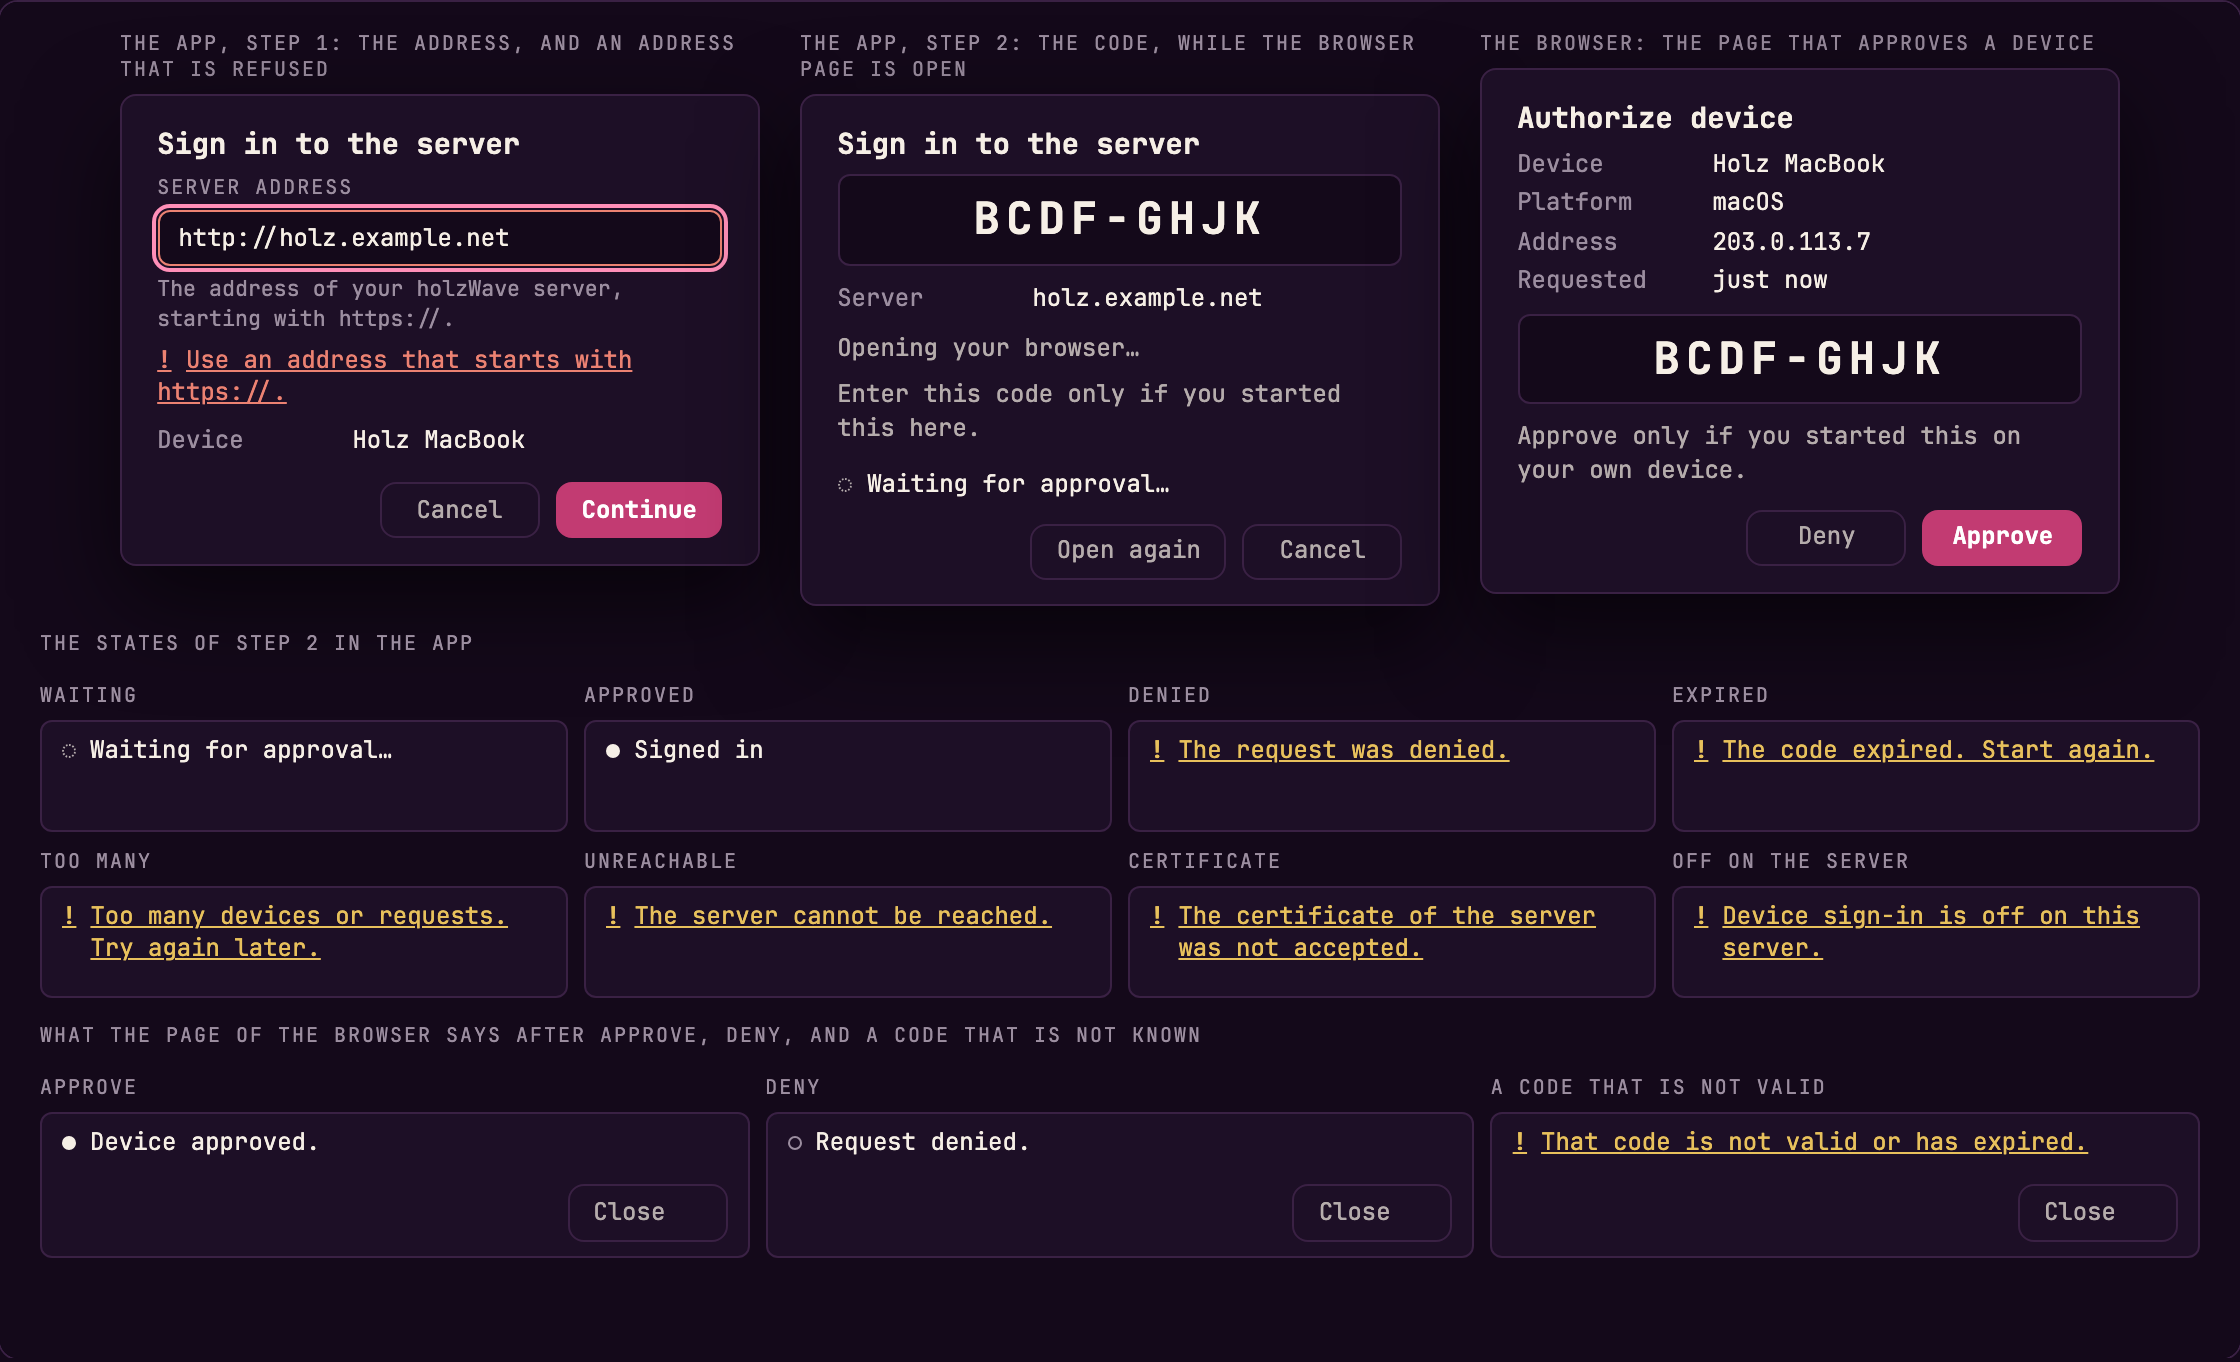
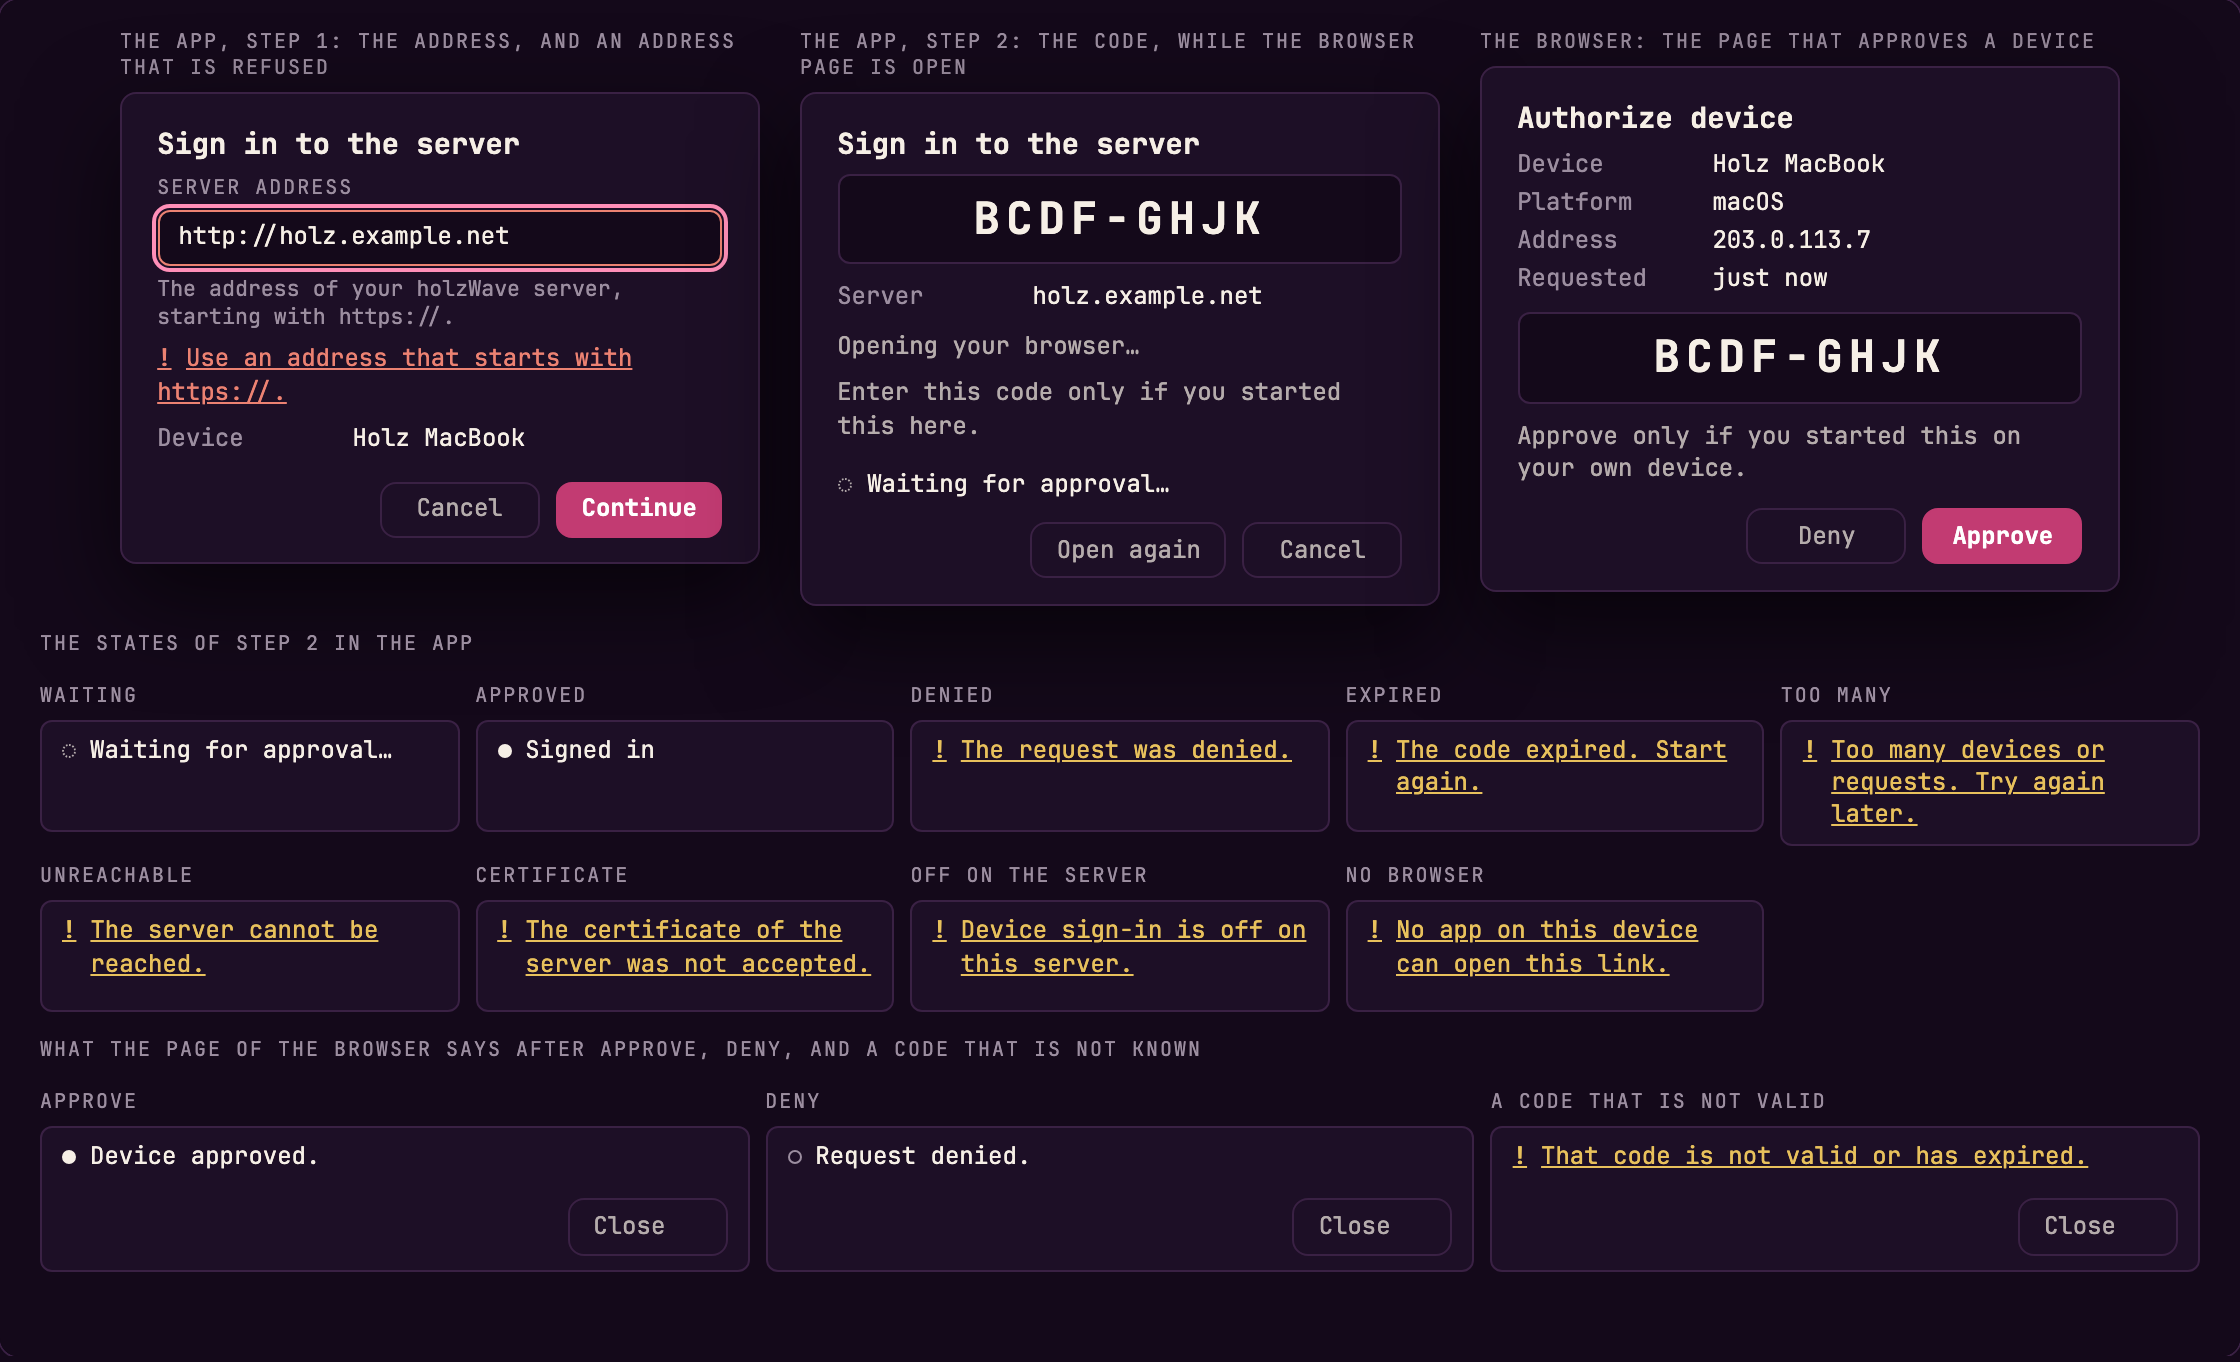
docs(12-37): the design page draws a browser that could not be opened under the code of the sign-in step, the picture is rendered again and both captions name it
- a cell No browser among the states of step 2; the grid has five columns so nine cells fit without a row leaving the stage
- the dump of the new page against the previous one differs in exactly the view device-authorize

Claude-Session: https://claude.ai/code/session_01LwGZpYjc6okCkNEtVxMhrw

diff --git a/docs/design/haarlinie-voll.html b/docs/design/haarlinie-voll.html
@@ -815,7 +815,7 @@ td:first-child{color:var(--ink);font-weight:600;white-space:nowrap}
 .dv-kv .k{color:var(--ink3)}.dv-kv .v{color:var(--ink);overflow:hidden;text-overflow:ellipsis;white-space:nowrap}
 .dv-kv .v.mo{font-family:var(--mono)}
 .dv-note{margin:0 0 .4rem;color:var(--ink2)}
-.dv-states{display:grid;grid-template-columns:repeat(4,1fr);gap:8px}
+.dv-states{display:grid;grid-template-columns:repeat(5,1fr);gap:8px}
 .dv-res{display:grid;grid-template-columns:repeat(3,1fr);gap:8px}
 .dv-st{display:flex;flex-direction:column;gap:3px;padding:6px 10px 7px;border:1px solid var(--edge);border-radius:6px;background:var(--ground2);min-height:56px}
 .dv-st .w{display:flex;align-items:flex-start;gap:7px;line-height:1.35}
@@ -1834,7 +1834,7 @@ const dvAuthorize=()=>`<div class="dv-page"><div class="dv-top">
  ${svCell('The browser: the page that approves a device',dvPage)}
  </div><div class="cap" style="margin-top:2px">The states of step 2 in the app</div><div class="dv-states">
  ${svCell('Waiting',dvSt('wait','Waiting for approval…'))}${svCell('Approved',dvSt('in','Signed in'))}${svCell('Denied',dvSt('','The request was denied.',1))}
- ${svCell('Expired',dvSt('','The code expired. Start again.',1))}${svCell('Too many',dvSt('','Too many devices or requests. Try again later.',1))}${svCell('Unreachable',dvSt('','The server cannot be reached.',1))}${svCell('Certificate',dvSt('','The certificate of the server was not accepted.',1))}${svCell('Off on the server',dvSt('','Device sign-in is off on this server.',1))}
+ ${svCell('Expired',dvSt('','The code expired. Start again.',1))}${svCell('Too many',dvSt('','Too many devices or requests. Try again later.',1))}${svCell('Unreachable',dvSt('','The server cannot be reached.',1))}${svCell('Certificate',dvSt('','The certificate of the server was not accepted.',1))}${svCell('Off on the server',dvSt('','Device sign-in is off on this server.',1))}${svCell('No browser',dvSt('','No app on this device can open this link.',1))}
  </div><div class="cap" style="margin-top:2px">What the page of the browser says after Approve, Deny, and a code that is not known</div><div class="dv-res">
  ${svCell('Approve',dvSt('in','Device approved.',0,1))}${svCell('Deny',dvSt('out','Request denied.',0,1))}${svCell('A code that is not valid',dvSt('','That code is not valid or has expired.',1,1))}
  </div></div>`;
@@ -1927,7 +1927,7 @@ const views=[
  ['web-window','Web: window','The window as a browser shows it: the bar starts at the left edge, with no window buttons and no drag region. In the status line the marks reconnecting (a dotted ring), session ends in 4 min (a quarter circle) and secrets locked (a lock and the text button Unlock), and the notice Not available in the browser. A file dragged over a pane that takes it (a shell, a chat or a file browser; a preview, the monitor and a tool view take nothing and show no edge) shows a dashed edge and Drop to upload, with the upload folder once the page has seen it (the first drop of a page load shows the label alone); the edge is drawn here on the shell pane, and it is the same on a chat and on a file browser. A dropped file becomes its quoted path typed in a shell, the same path in the message of a chat, and the selected row of a file browser that lists the upload folder (a browser that lists another folder stays as it is and the status line says Uploaded to the folder). The row menu of a file in the file browser has the one entry Download; Settings has the row Notifications, here off, on and blocked by the browser.'],
   ['server-sessions','Server sessions','The Connections view with the holzWave server above the saved connections (docs/design.md 6.34): its name, its address in mono, the state dot with its word, Sign out and New session; under it the running sessions with the program title, the directory, the size, the start, how many are attached, free or held, Attach and End; the help line under the row. Behind the dialog a local pane and a remote pane whose header says WRITING. With the Browser platform the row is This server, with no sign-in and no sign-out.'],
  ['server-pane-states','Server pane states','The header of a remote pane (6.34): WRITING with a filled square, WATCHING with a hollow one and FREE with a dashed one, and Take over after the label when the pane does not write. Then the eight states of the pane (Not sent shown for a pane that watches, and for a pane whose write right was gone when its connection came back), each a dot shape and a word in the context slot and, except for Input dropped and Not sent, one dim line on the screen, and the server row in its states: signed in, not signed in, signing in, unreachable, remote sessions off on the server, and the Android row while the secrets are locked.'],
- ['device-authorize','Device sign-in','Signing in to a server from the app (docs/design.md 6.35): step 1 asks for the address of the server (an address that is not https is refused), step 2 shows the code while the browser page opens; and the page Authorize device of the browser with the device, the platform, the address, the time and the code to compare, Deny and Approve. Under them the states of step 2 (waiting, approved, denied, expired, too many, unreachable, a certificate that is not accepted, off on the server) and the three results of the page. Each state is a dot shape or the mark ! besides its words.'],
+ ['device-authorize','Device sign-in','Signing in to a server from the app (docs/design.md 6.35): step 1 asks for the address of the server (an address that is not https is refused), step 2 shows the code while the browser page opens; and the page Authorize device of the browser with the device, the platform, the address, the time and the code to compare, Deny and Approve. Under them the states of step 2 (waiting, approved, denied, expired, too many, unreachable, a certificate that is not accepted, off on the server, a browser that could not be opened) and the three results of the page. Each state is a dot shape or the mark ! besides its words.'],
  ['device-lists','Device lists','The Devices group of the Account dialog (a revoke that asks a second time, and the empty list), the list of devices of an administrator in the People dialog with the column Owner, and the Device access group with the two switches Sync target and Remote sessions (docs/design.md 6.35): the word ON or OFF is inside the knob, and a switch that the server configuration turned off for good is OFF, dashed, not operable, with its line.'],
  ['links','Links','Links the program marked, in a shell pane (docs/design.md 6.31): two at rest with a dotted underline, one under the pointer with a solid underline and its target in the LINK segment of the status line (cut in the middle) with the notice beside it that says why a click could not open it (the host\u2019s own sentence, here an opener that cannot be started), one with the open gesture held in solid rose, one in text the program underlined itself, and an address with a scheme that is not allowed, which stays plain text. The pointer cursor is the system\u2019s and is not drawn.'],
   ['link-ask','Link dialog','The question Open this link? for a link whose text names one site and whose target is another: the text and the full target in mono, Cancel focused with the 2 px ring, Open the solid rose button. It has the shape of the close confirmation and is a floating layer.'],

diff --git a/docs/design.md b/docs/design.md
@@ -293,7 +293,7 @@ Each view is a state of the same window. Overlays use the 24 px radius and the s
 | Web: window | ![](design/web-window.png) | the window as the browser shows it (6.30): no window buttons, the marks of the status line, the upload target, the `Download` row menu and the Notifications setting |
 | Server sessions | ![](design/server-sessions.png) | the Connections view with the server row above the saved connections (6.34): signed in, `Sign out` and `New session`, the help line, two sessions with their size, start, attached count, `held` or `free`, `Attach` and `End`; behind it a local pane and a remote pane whose header says `WRITING`; with the Browser platform the row is `This server` |
 | Server pane states | ![](design/server-pane-states.png) | the writer label in a pane header (6.34): `WRITING` with a filled square, `WATCHING` with a hollow one and `FREE` with a dashed one, `Take over` after the last two; the eight states of the pane, with `Not sent` shown for a watcher and for a pane whose write right was gone when its connection came back; the server row in its states |
-| Device sign-in | ![](design/device-authorize.png) | the step in the app and the page `Authorize device` (6.35), with the states of the second screen (waiting, approved, denied, expired, too many, unreachable, a certificate that is not accepted, off on the server) and the three results of the page |
+| Device sign-in | ![](design/device-authorize.png) | the step in the app and the page `Authorize device` (6.35), with the states of the second screen (waiting, approved, denied, expired, too many, unreachable, a certificate that is not accepted, off on the server, a browser that could not be opened) and the three results of the page |
 | Device lists | ![](design/device-lists.png) | the Devices group of the Account dialog, the list of devices of an administrator with the column `Owner`, and the group `Device access` with its two switches, one of them turned off by the configuration (6.35) |
 | Links | ![](design/links.png) | links in the output of a shell pane (6.31): two at rest with a dotted underline, one under the pointer with a solid underline and its target in the `LINK` segment of the status line, with the notice beside it that says why a click could not open it, one with the open gesture held in rose, one in text the program underlined itself, and an address with a scheme that is not allowed, which stays plain text |
 | Link dialog | ![](design/link-ask.png) | the question `Open this link?` (6.31) for a link whose text names one site and whose target is another: the text and the target in mono, `Cancel` focused, `Open` solid rose |

diff --git a/README.md b/README.md
@@ -154,7 +154,7 @@ Drawings of the design for the server as a sync target and for terminal sessions
 
 | Signing in to a server | Devices and the two switches | The target of the sync |
 |---|---|---|
-| ![Drawing of the design: the two steps of the sign-in in the app, the page Authorize device of the browser and the states of the sign-in, a certificate that is not accepted among them](docs/design/device-authorize.png) | ![Drawing of the design: the list of devices of a person and of an administrator, and the group Device access with the switches Sync target and Remote sessions](docs/design/device-lists.png) | ![Drawing of the design: the sync popover with the choice WebDAV or holzWave server, set up and connected](docs/design/sync-transport.png) |
+| ![Drawing of the design: the two steps of the sign-in in the app, the page Authorize device of the browser and the states of the sign-in, a certificate that is not accepted and a browser that could not be opened among them](docs/design/device-authorize.png) | ![Drawing of the design: the list of devices of a person and of an administrator, and the group Device access with the switches Sync target and Remote sessions](docs/design/device-lists.png) | ![Drawing of the design: the sync popover with the choice WebDAV or holzWave server, set up and connected](docs/design/sync-transport.png) |
 
 | Links at rest and under the pointer | The question before a link opens | Pictures in a pane |
 |---|---|---|
